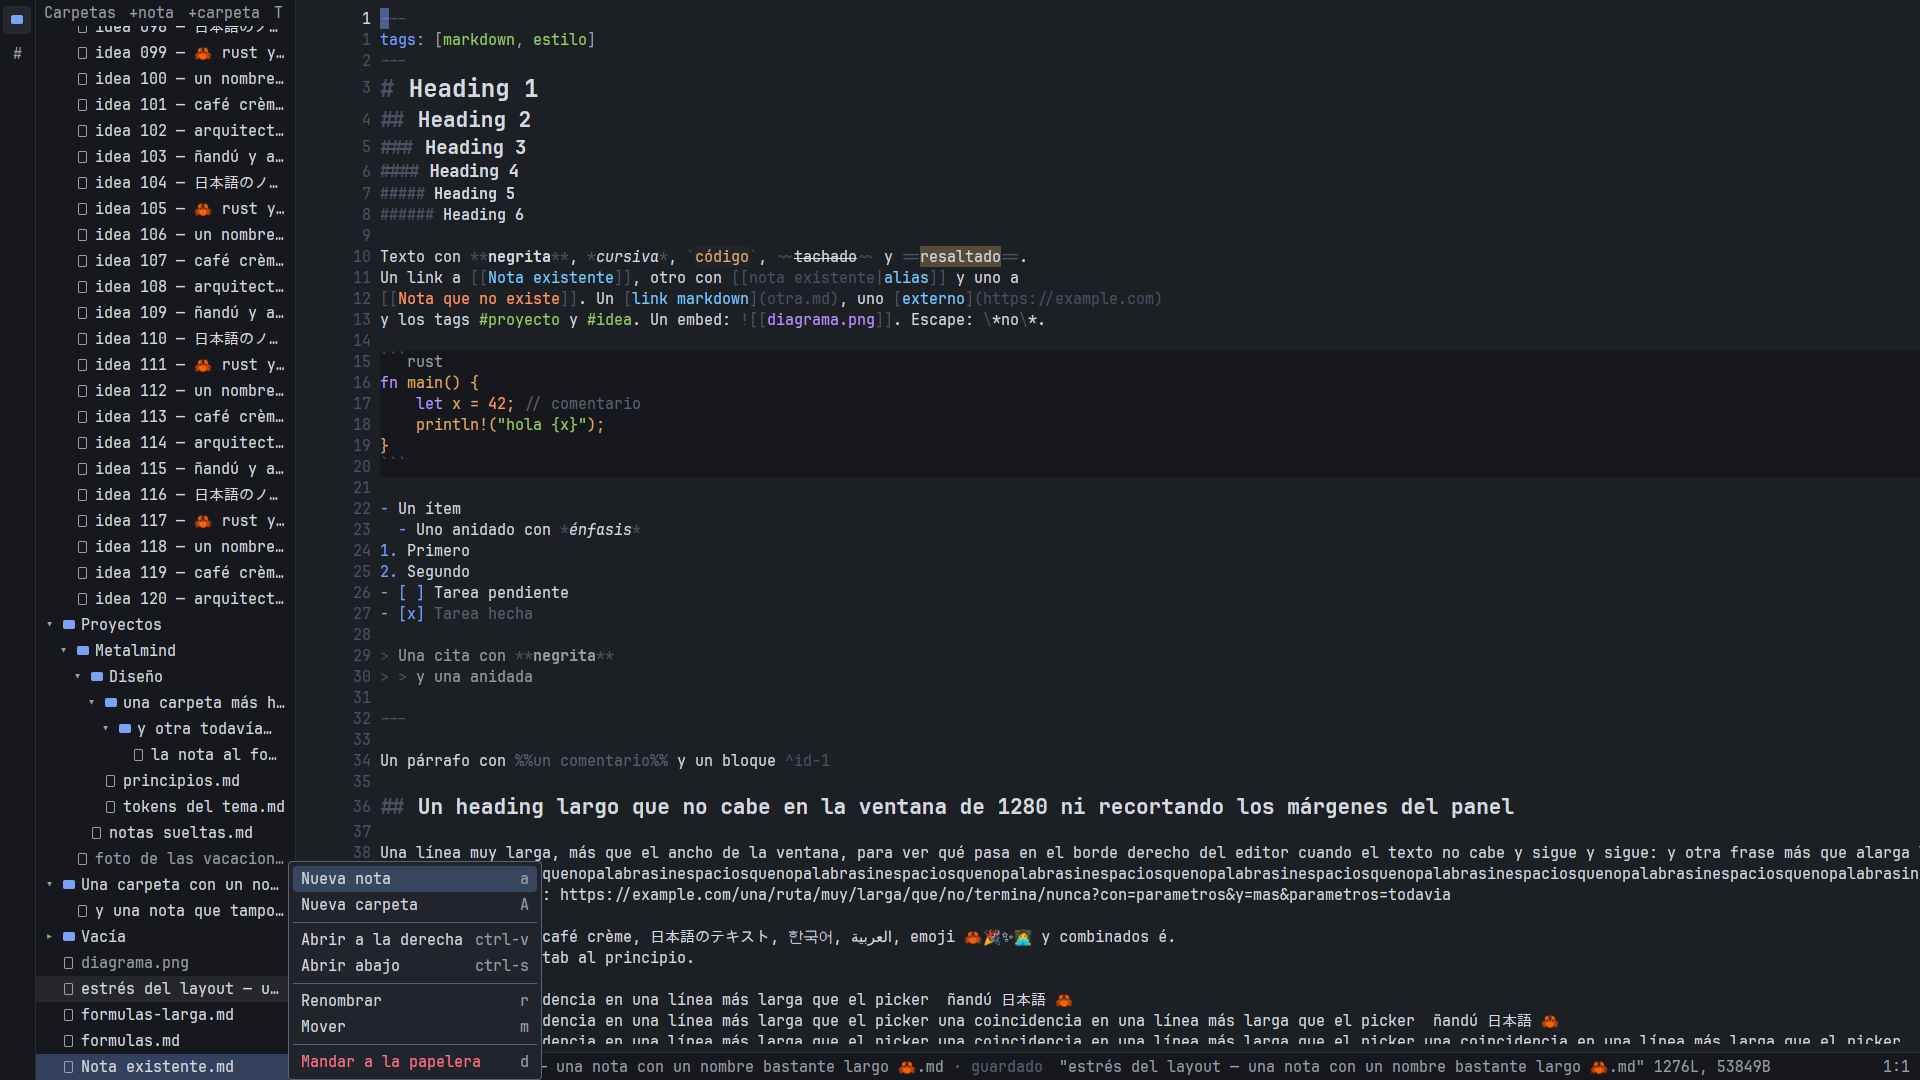
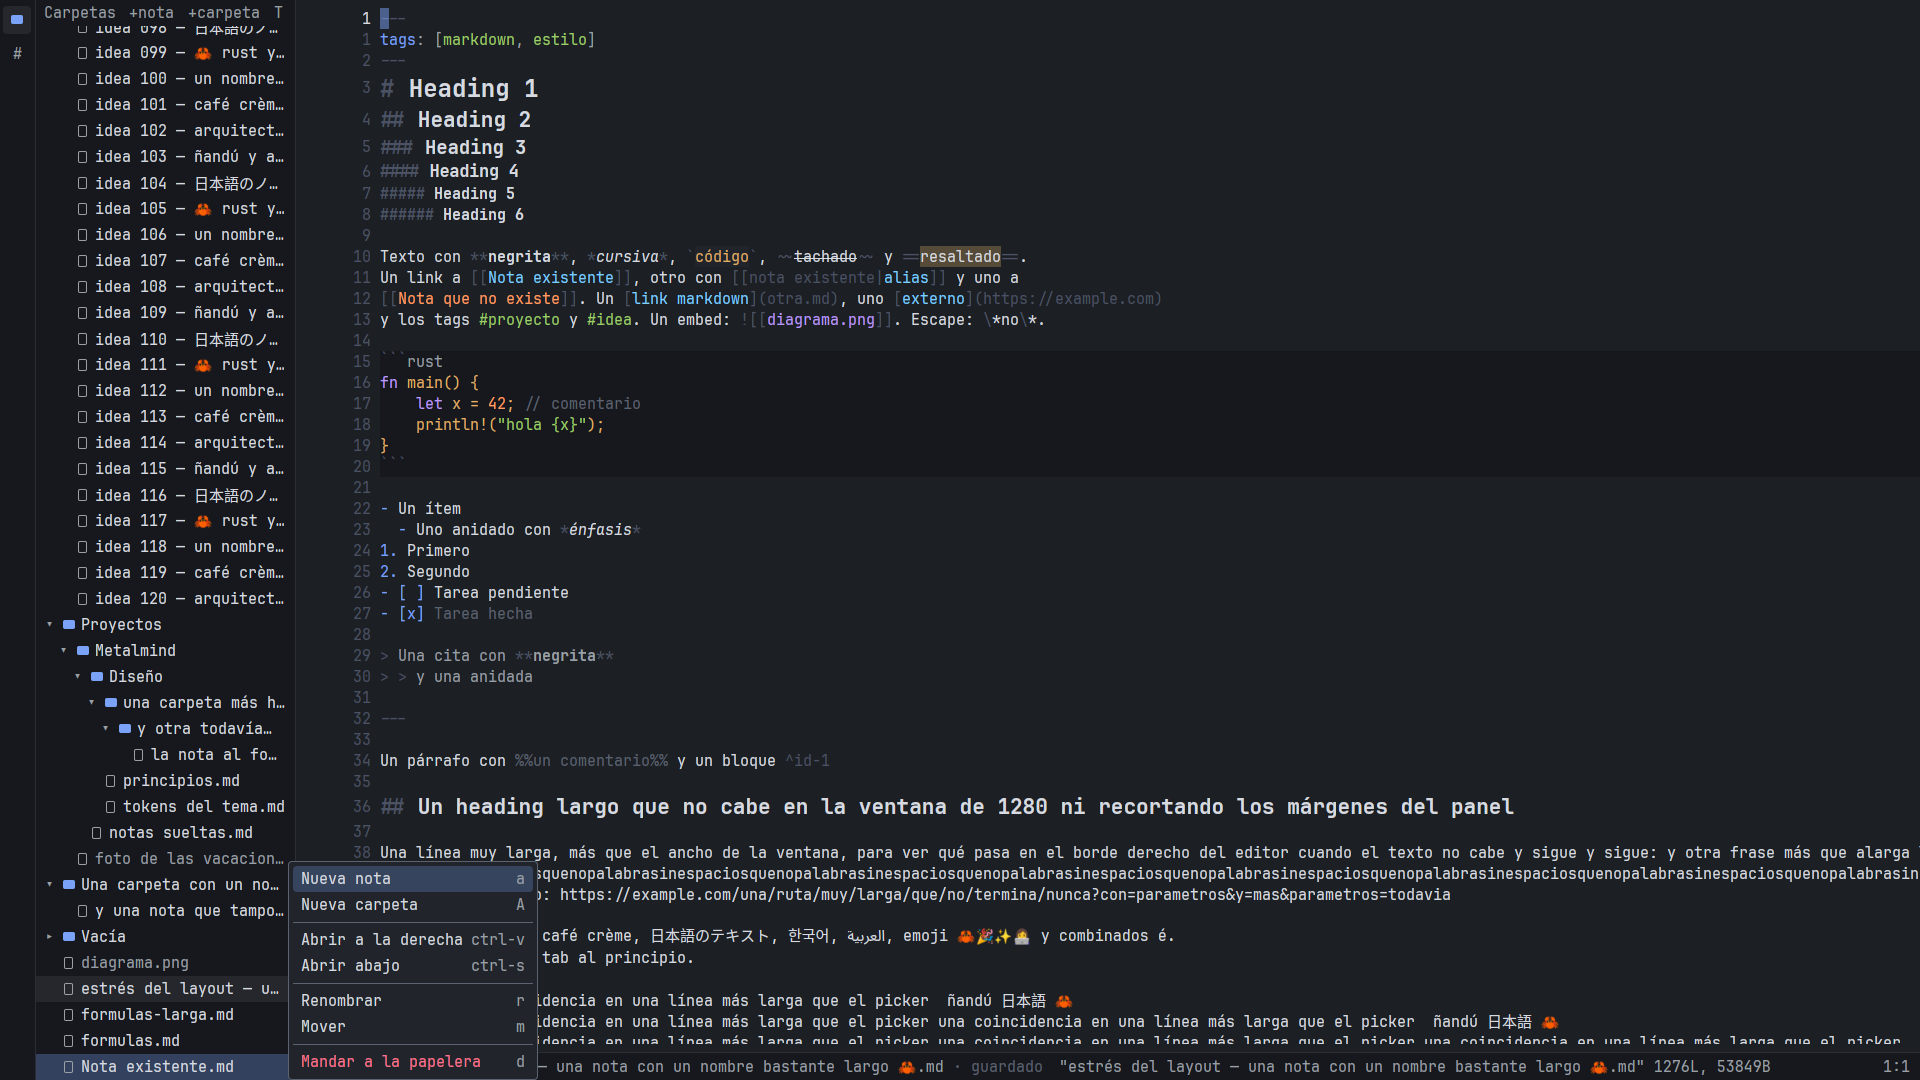
docs: capturas del menú del árbol sobre main actual y el hueco del tema

diff --git a/docs/capturas/menu-atajo/diff-antes-despues.md b/docs/capturas/menu-atajo/diff-antes-despues.md
@@ -1,6 +1,6 @@
 # Capturas del menú del árbol (#109): `main` contra esta rama
 
-`scripts/capturas.sh` en Xvfb con lavapipe: primero `main` (`e81ab50`), después esta rama con `--antes`. De las 132 capturas solo cambian las ocho del menú contextual: «Abrir a la derecha» ya no queda pegada a `ctrl-v` y el menú crece hasta su fila más larga. `formulas-bloque-oscuro-1920` cambia 7 píxeles del borde de una fórmula, el mismo ruido de `main` contra `main` que se ve en [theme-desde-config](../theme-desde-config/); no va aquí.
+`scripts/capturas.sh` en Xvfb con lavapipe: primero `main` (`0a848da`), después esta rama con `--antes`. De las 132 capturas solo cambian las ocho del menú contextual: «Abrir a la derecha» ya no queda pegada a `ctrl-v` (entre las dos queda al menos `menu_item_padding_x`) y el menú crece hasta su fila más larga.
 
 Aquí van las ocho de la rama, las de `main` (`antes-…`) y el diff (`diff-…`).
 
@@ -9,8 +9,8 @@ Aquí van las ocho de la rama, las de `main` (`antes-…`) y el diff (`diff-…`
 | editor-claro-1280 | 0 |
 | editor-final-claro-1280 | 0 |
 | arbol-claro-1280 | 0 |
-| menu-claro-1280 | 2863 (`diff-menu-claro-1280.png`) |
-| menu-borde-claro-1280 | 2925 (`diff-menu-borde-claro-1280.png`) |
+| menu-claro-1280 | 2450 (`diff-menu-claro-1280.png`) |
+| menu-borde-claro-1280 | 2639 (`diff-menu-borde-claro-1280.png`) |
 | split-claro-1280 | 0 |
 | linea-de-comandos-claro-1280 | 0 |
 | finder-claro-1280 | 0 |
@@ -42,8 +42,8 @@ Aquí van las ocho de la rama, las de `main` (`antes-…`) y el diff (`diff-…`
 | editor-claro-1920 | 0 |
 | editor-final-claro-1920 | 0 |
 | arbol-claro-1920 | 0 |
-| menu-claro-1920 | 2863 (`diff-menu-claro-1920.png`) |
-| menu-borde-claro-1920 | 2980 (`diff-menu-borde-claro-1920.png`) |
+| menu-claro-1920 | 2450 (`diff-menu-claro-1920.png`) |
+| menu-borde-claro-1920 | 2655 (`diff-menu-borde-claro-1920.png`) |
 | split-claro-1920 | 0 |
 | linea-de-comandos-claro-1920 | 0 |
 | finder-claro-1920 | 0 |
@@ -75,8 +75,8 @@ Aquí van las ocho de la rama, las de `main` (`antes-…`) y el diff (`diff-…`
 | editor-oscuro-1280 | 0 |
 | editor-final-oscuro-1280 | 0 |
 | arbol-oscuro-1280 | 0 |
-| menu-oscuro-1280 | 4823 (`diff-menu-oscuro-1280.png`) |
-| menu-borde-oscuro-1280 | 4823 (`diff-menu-borde-oscuro-1280.png`) |
+| menu-oscuro-1280 | 3983 (`diff-menu-oscuro-1280.png`) |
+| menu-borde-oscuro-1280 | 3982 (`diff-menu-borde-oscuro-1280.png`) |
 | split-oscuro-1280 | 0 |
 | linea-de-comandos-oscuro-1280 | 0 |
 | finder-oscuro-1280 | 0 |
@@ -108,8 +108,8 @@ Aquí van las ocho de la rama, las de `main` (`antes-…`) y el diff (`diff-…`
 | editor-oscuro-1920 | 0 |
 | editor-final-oscuro-1920 | 0 |
 | arbol-oscuro-1920 | 0 |
-| menu-oscuro-1920 | 4823 (`diff-menu-oscuro-1920.png`) |
-| menu-borde-oscuro-1920 | 4823 (`diff-menu-borde-oscuro-1920.png`) |
+| menu-oscuro-1920 | 3983 (`diff-menu-oscuro-1920.png`) |
+| menu-borde-oscuro-1920 | 3983 (`diff-menu-borde-oscuro-1920.png`) |
 | split-oscuro-1920 | 0 |
 | linea-de-comandos-oscuro-1920 | 0 |
 | finder-oscuro-1920 | 0 |
@@ -133,7 +133,7 @@ Aquí van las ocho de la rama, las de `main` (`antes-…`) y el diff (`diff-…`
 | listas-oscuro-1920 | 0 |
 | listas-casilla-oscuro-1920 | 0 |
 | formulas-oscuro-1920 | 0 |
-| formulas-bloque-oscuro-1920 | 7 (`diff-formulas-bloque-oscuro-1920.png`) |
+| formulas-bloque-oscuro-1920 | 0 |
 | formulas-larga-oscuro-1920 | 0 |
 | autoguardado-guardado-oscuro-1920 | 0 |
 | autoguardado-sin-guardar-oscuro-1920 | 0 |
